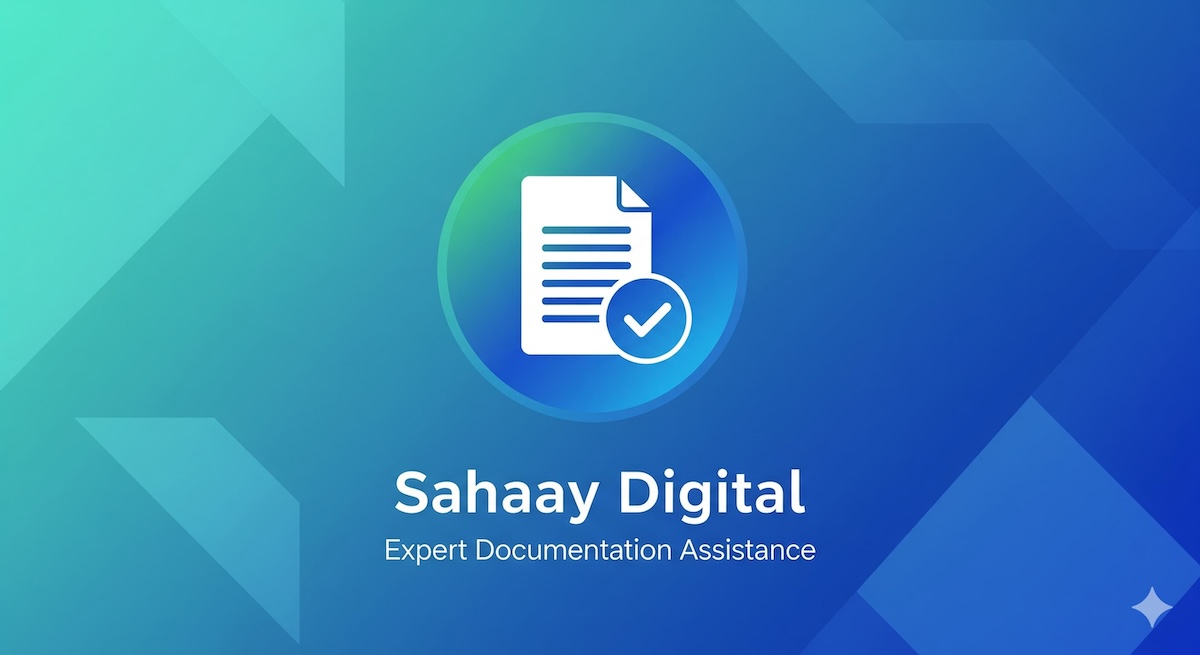
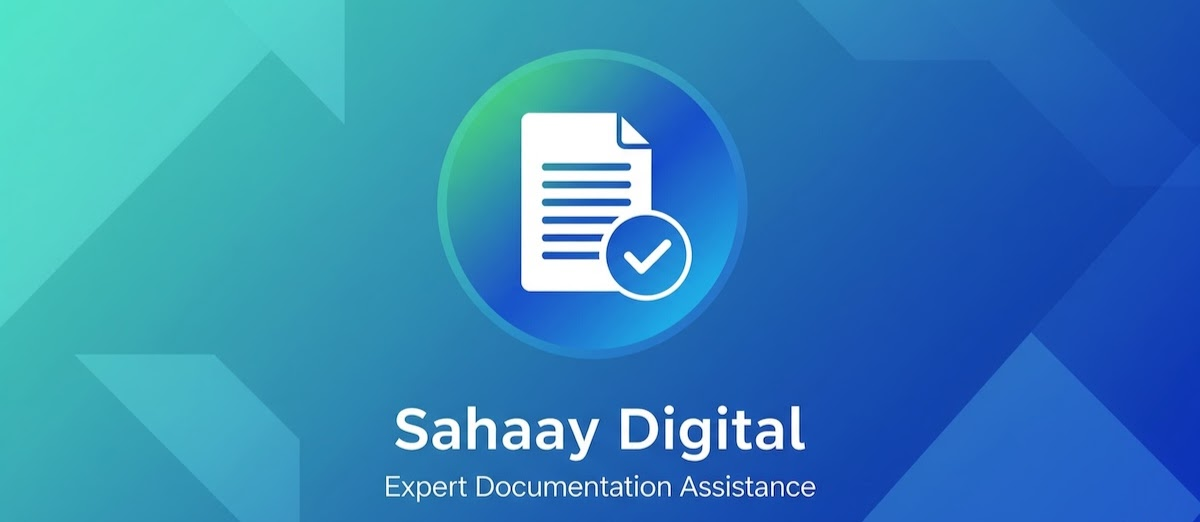
Update og image

diff --git a/index.html b/index.html
@@ -17,7 +17,7 @@
     <meta property="og:image" content="https://sahaayby.rakshithnettar.com/og-image.jpg" />
     <meta property="og:image:type" content="image/jpg" />
     <meta property="og:image:width" content="1200" />
-    <meta property="og:image:height" content="655" />
+    <meta property="og:image:height" content="522" />
     <meta
       property="og:image:alt"
       content="Sahaay Digital social card with a document-help icon and service summary."
